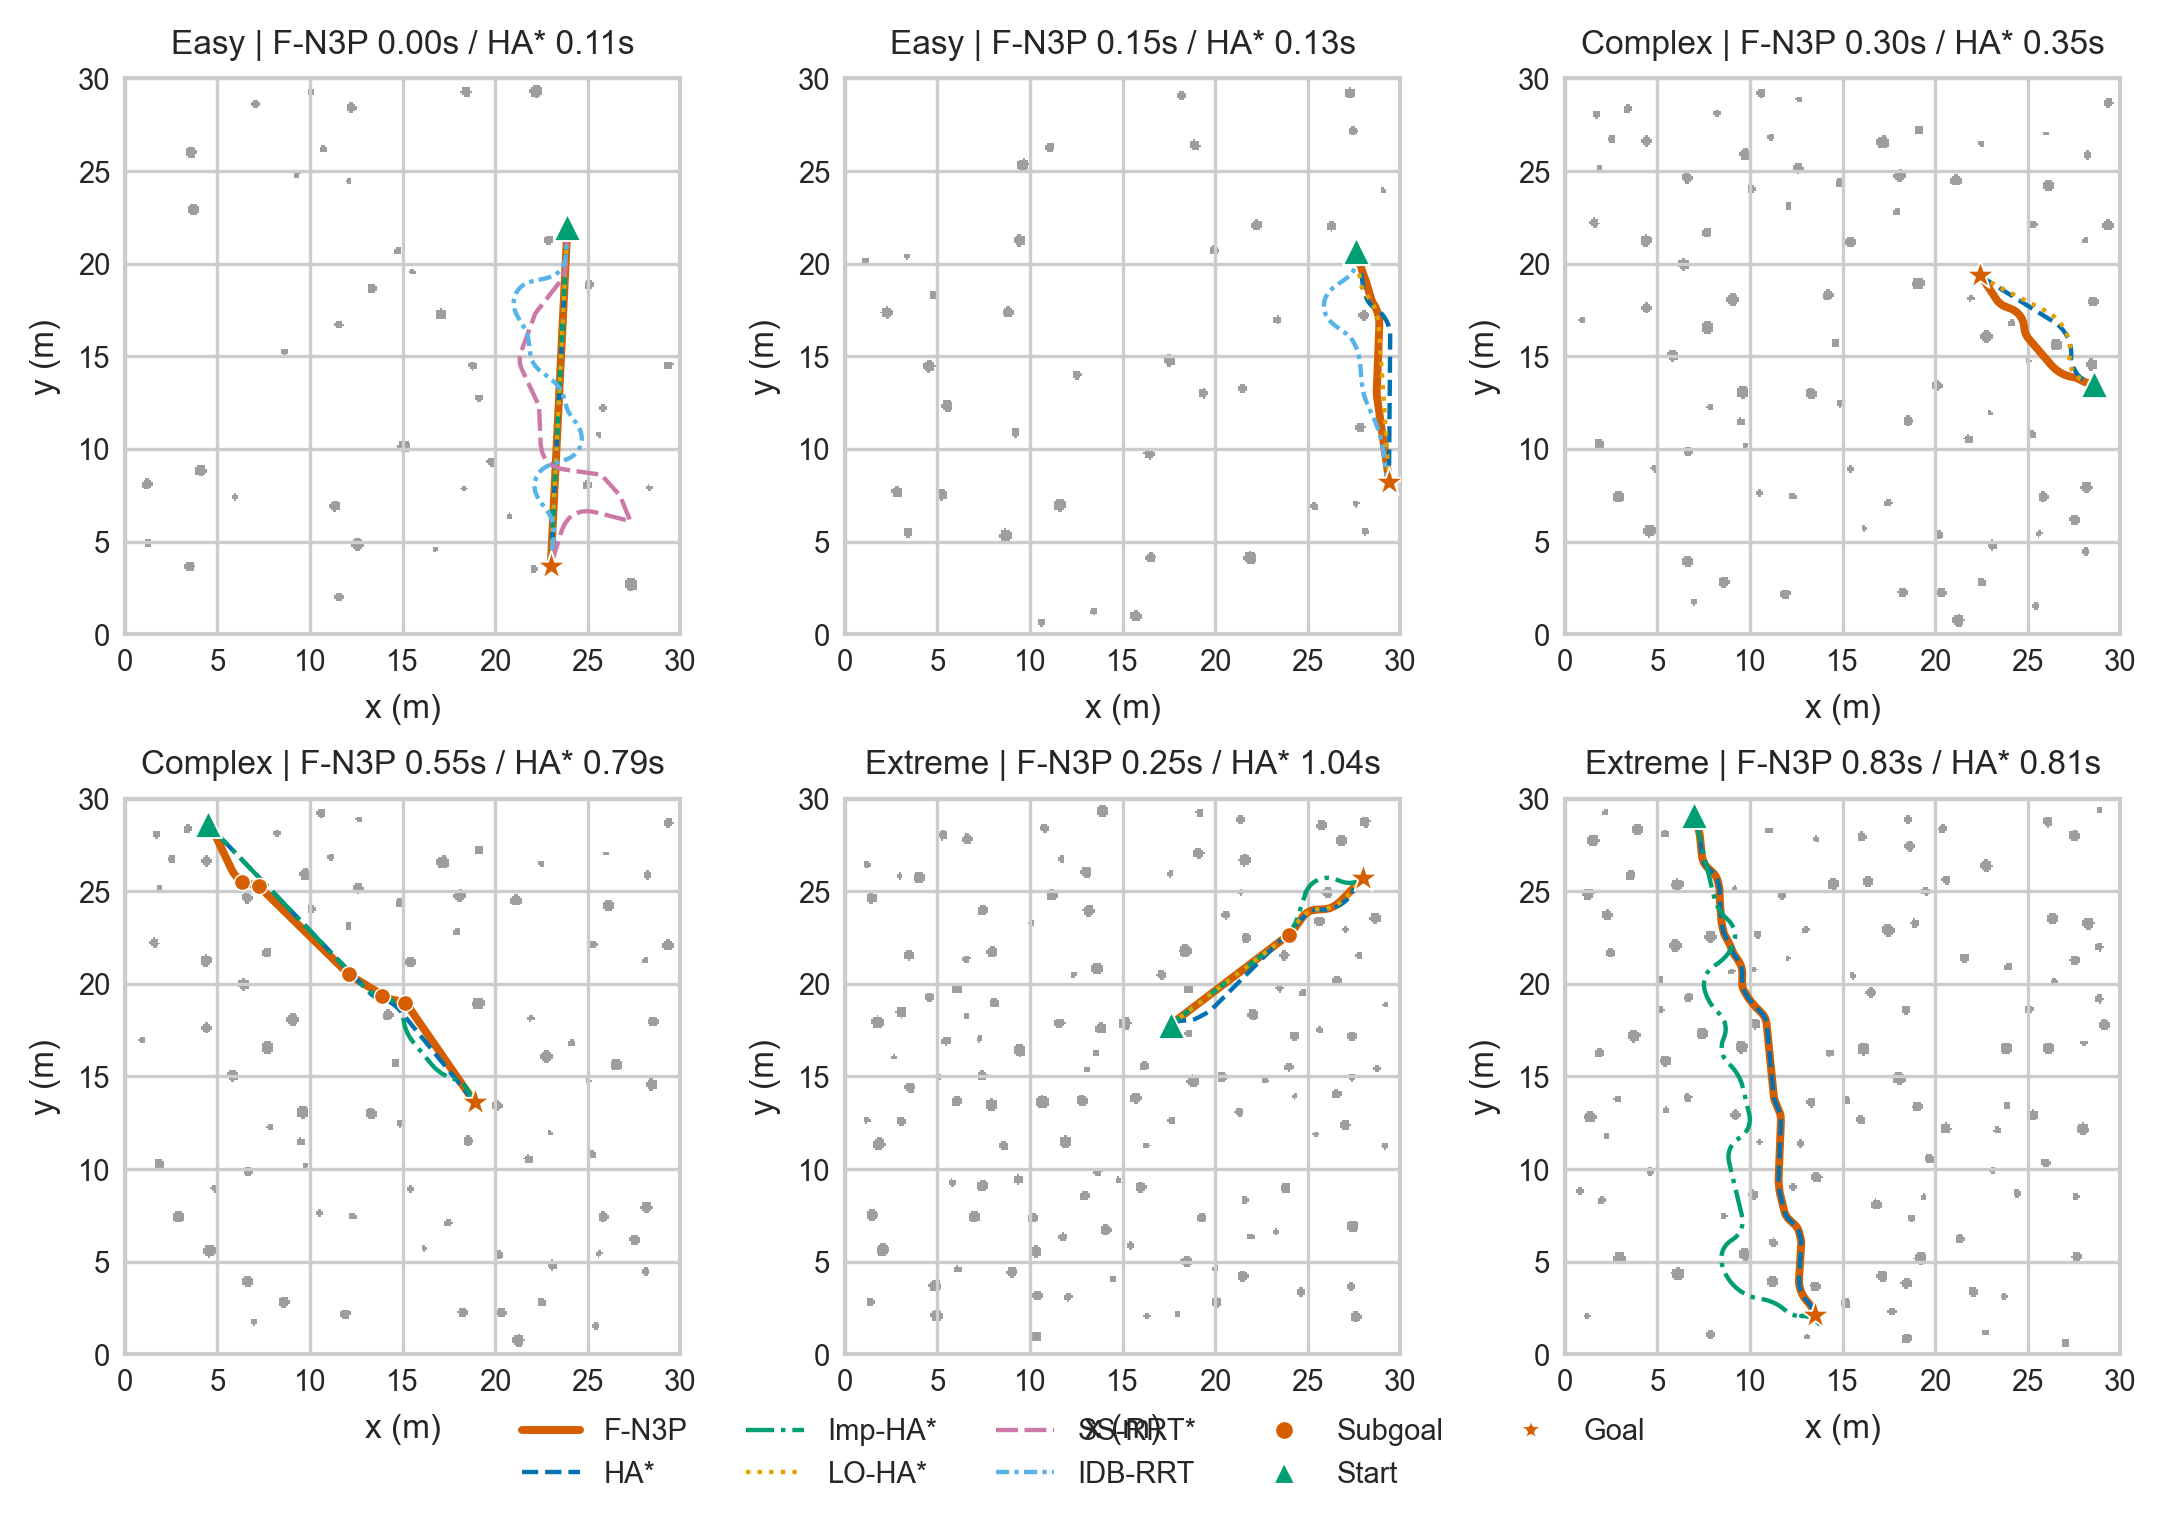
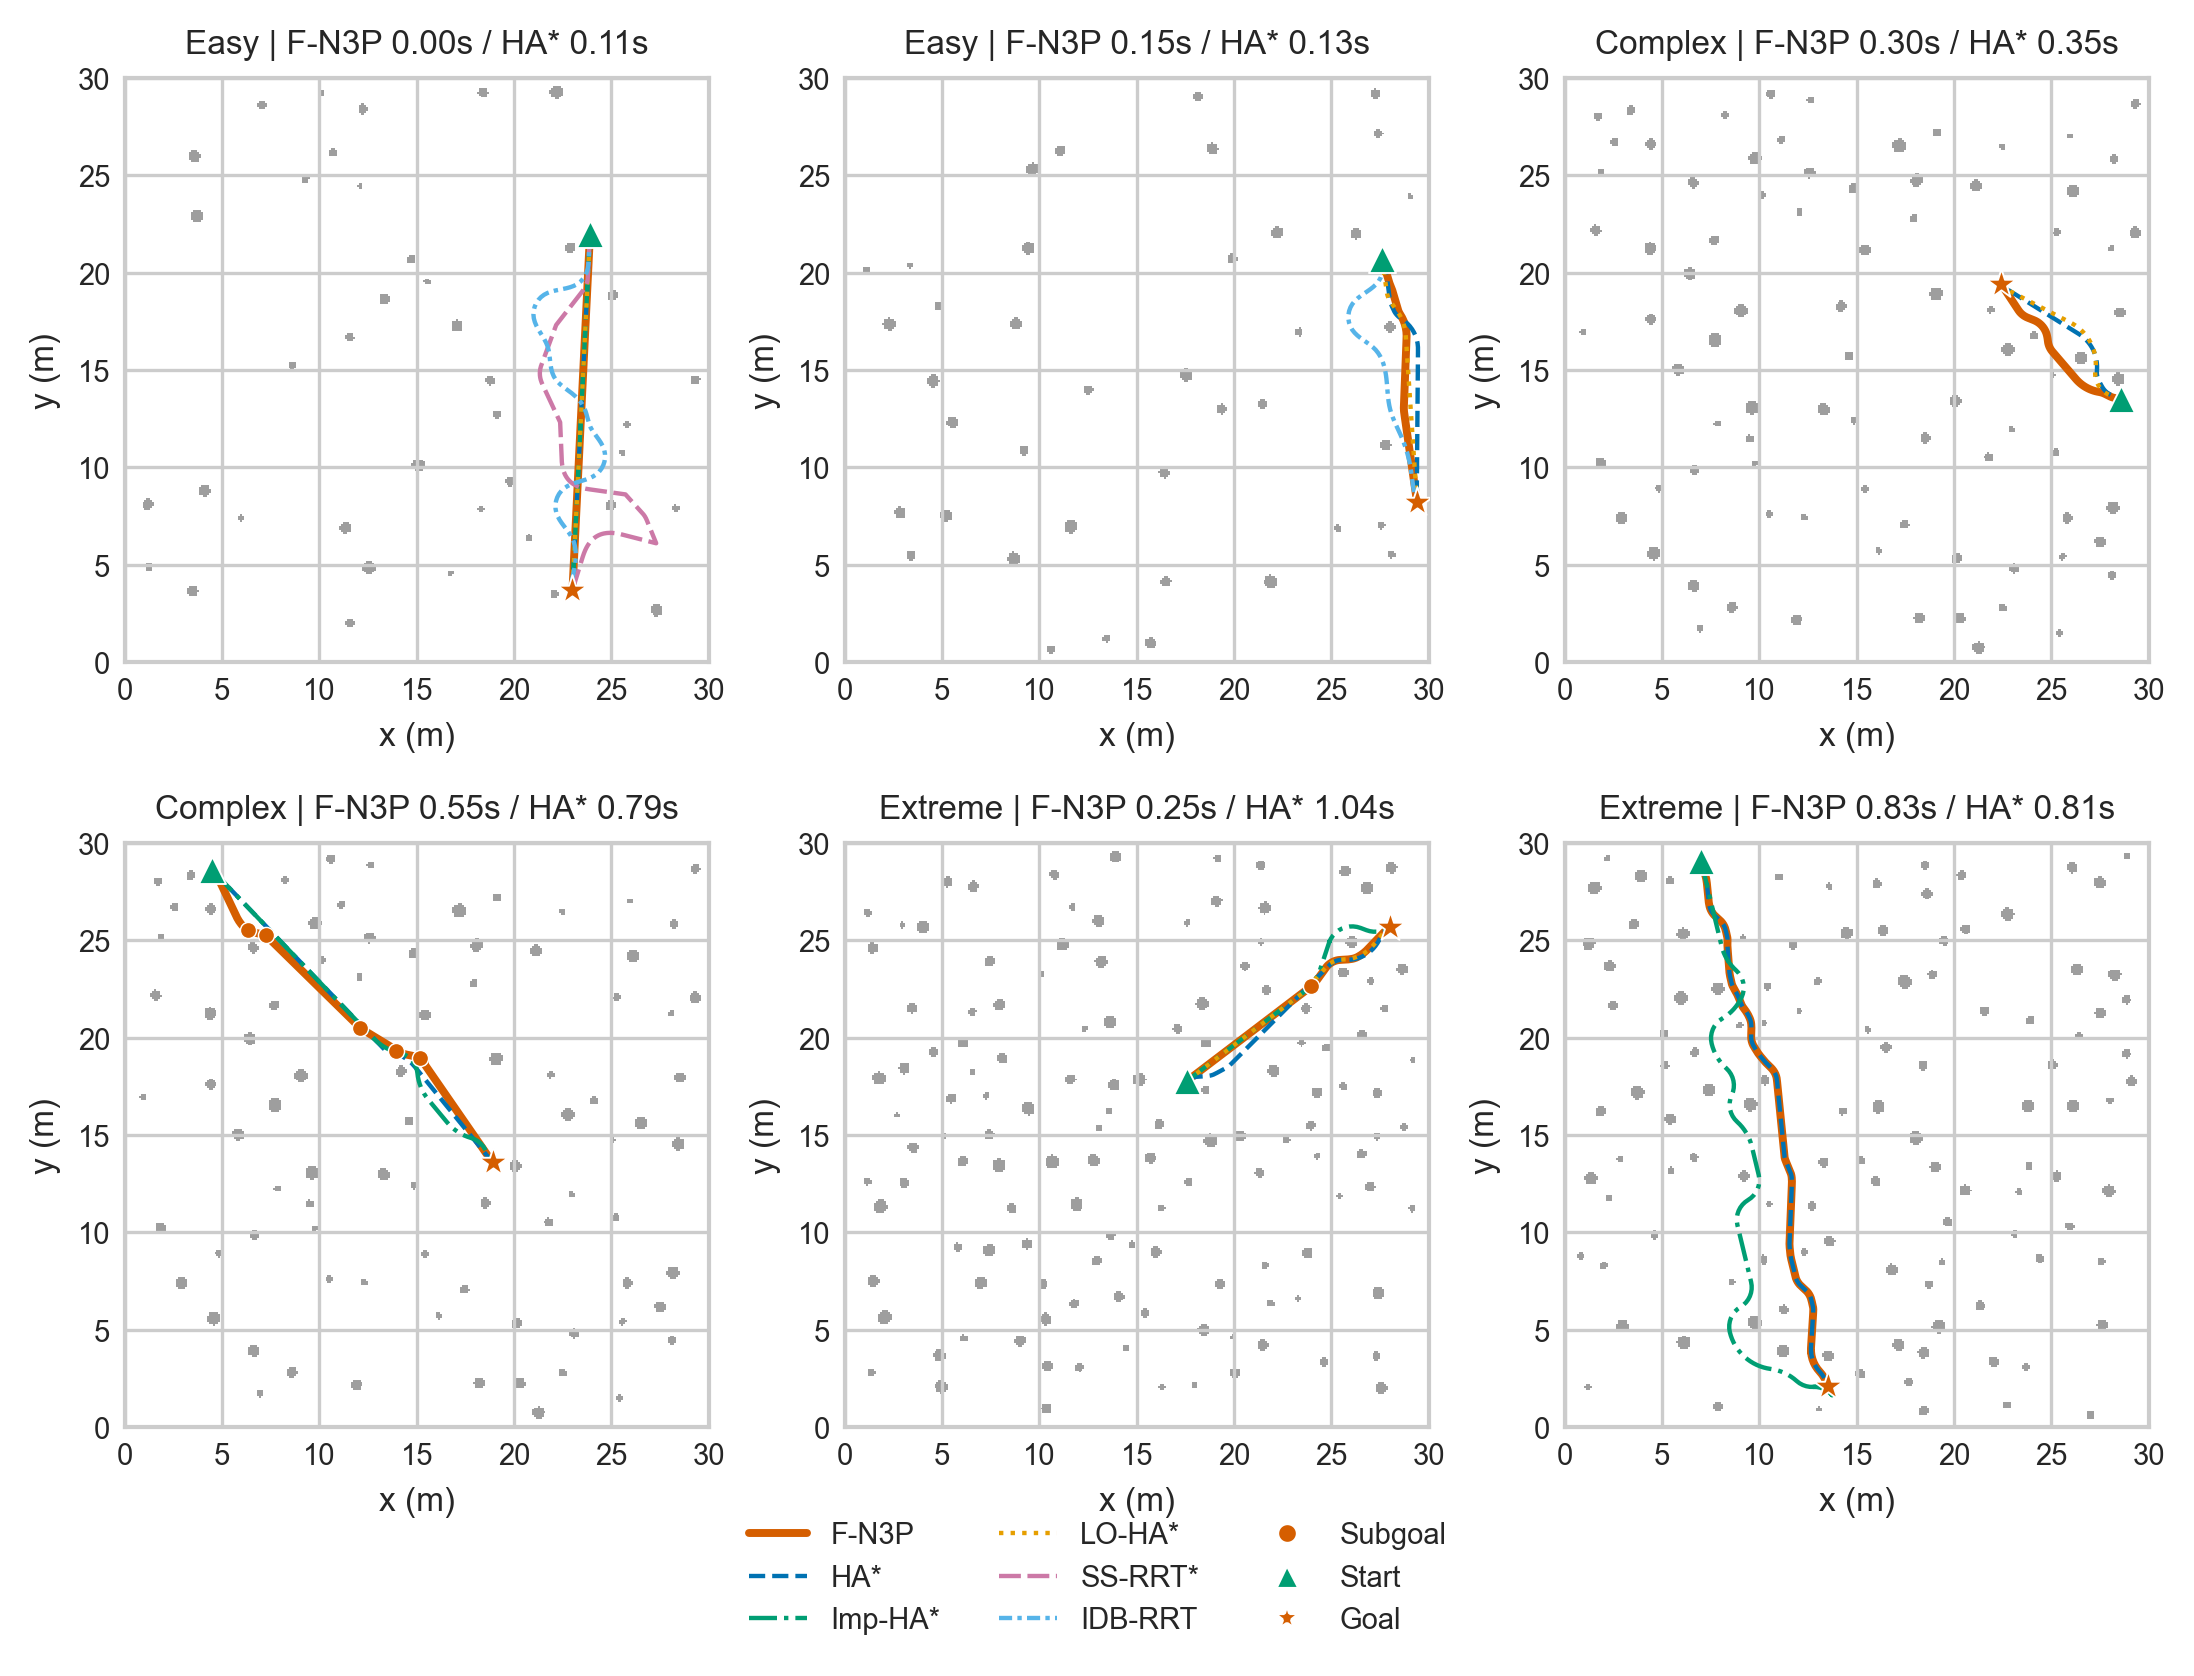
Run 6-method 50-trial comparison and generate paper figures

Changed region(s): [[0.0, 0.0, 0.9898, 0.983], [0.7424, 0.9216, 0.7733, 0.9523], [0.0309, 0.3993, 0.0619, 0.4301]]

diff --git a/2_experiment/forest_n3p/scripts/plot_paper_comparison.py b/2_experiment/forest_n3p/scripts/plot_paper_comparison.py
@@ -109,7 +109,7 @@ def plot_trajectory_overlay(
     if len(cases) < 6:
         raise RuntimeError(f"need 6 representative paired cases, found {len(cases)}")
 
-    fig, axes = plt.subplots(2, 3, figsize=(7.2, 4.8), dpi=dpi, constrained_layout=True)
+    fig, axes = plt.subplots(2, 3, figsize=(7.2, 5.1), dpi=dpi, constrained_layout=True)
     for ax, query_id in zip(axes.flat, cases, strict=True):
         fn3p = runs[(query_id, "f_n3p_knn")]
         map_info = maps.get(str(fn3p["map_seed"]))
@@ -160,7 +160,7 @@ def plot_trajectory_overlay(
         plt.Line2D([0], [0], marker="^", color="none", markerfacecolor="#009E73", markeredgecolor="white", label="Start", markersize=6),
         plt.Line2D([0], [0], marker="*", color="none", markerfacecolor=COLORS["f_n3p_knn"], markeredgecolor="white", label="Goal", markersize=7),
     ]
-    fig.legend(handles=handles, loc="lower center", ncol=5, frameon=False, bbox_to_anchor=(0.5, -0.04))
+    fig.legend(handles=handles, loc="lower center", ncol=3, frameon=False, bbox_to_anchor=(0.5, -0.08))
     fig.savefig(output_path, dpi=dpi, bbox_inches="tight")
     plt.close(fig)
 
